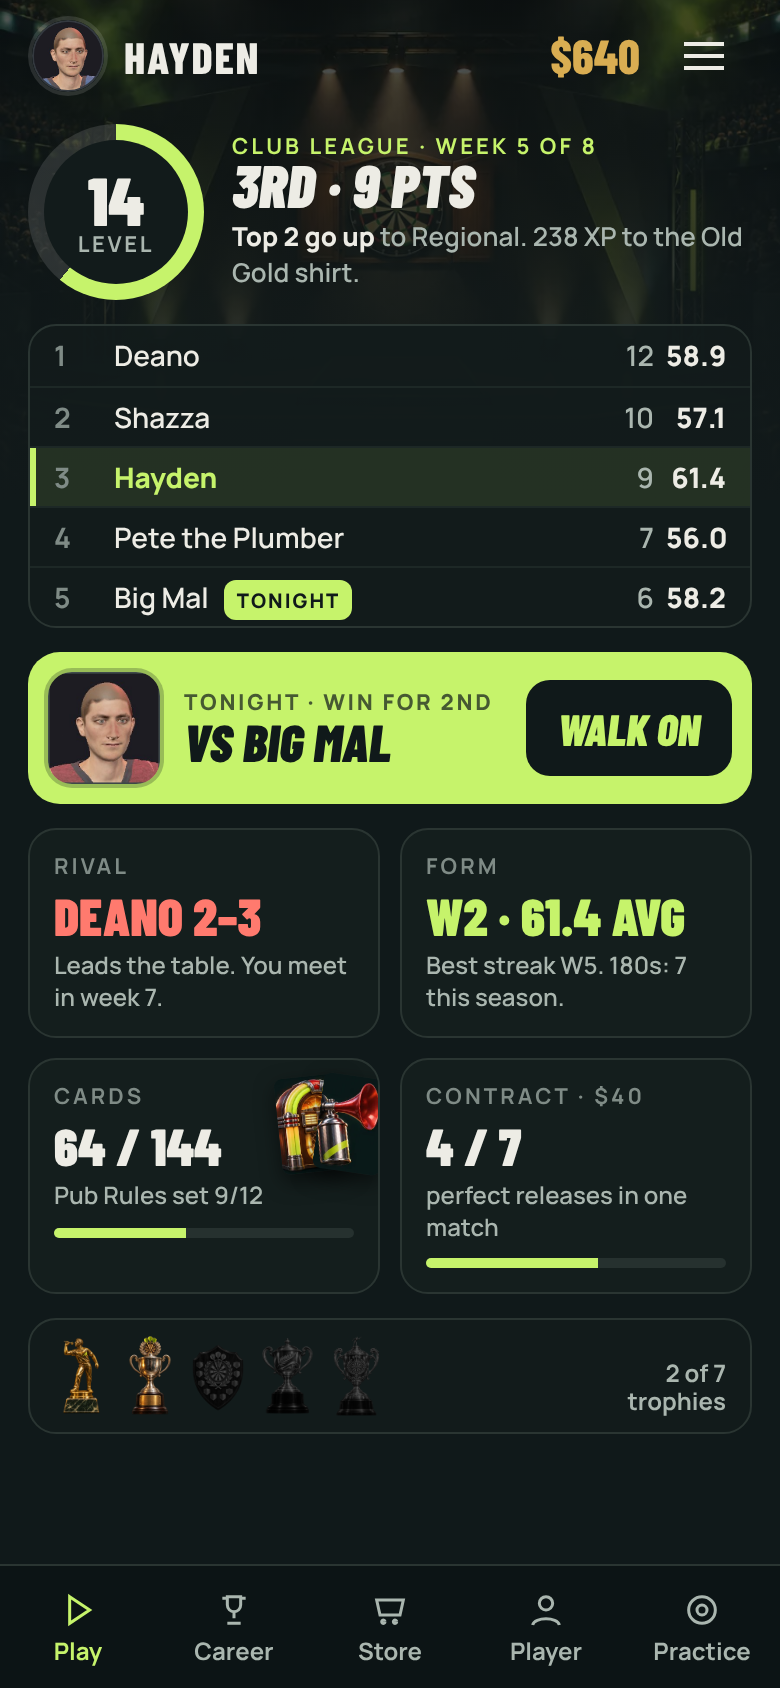
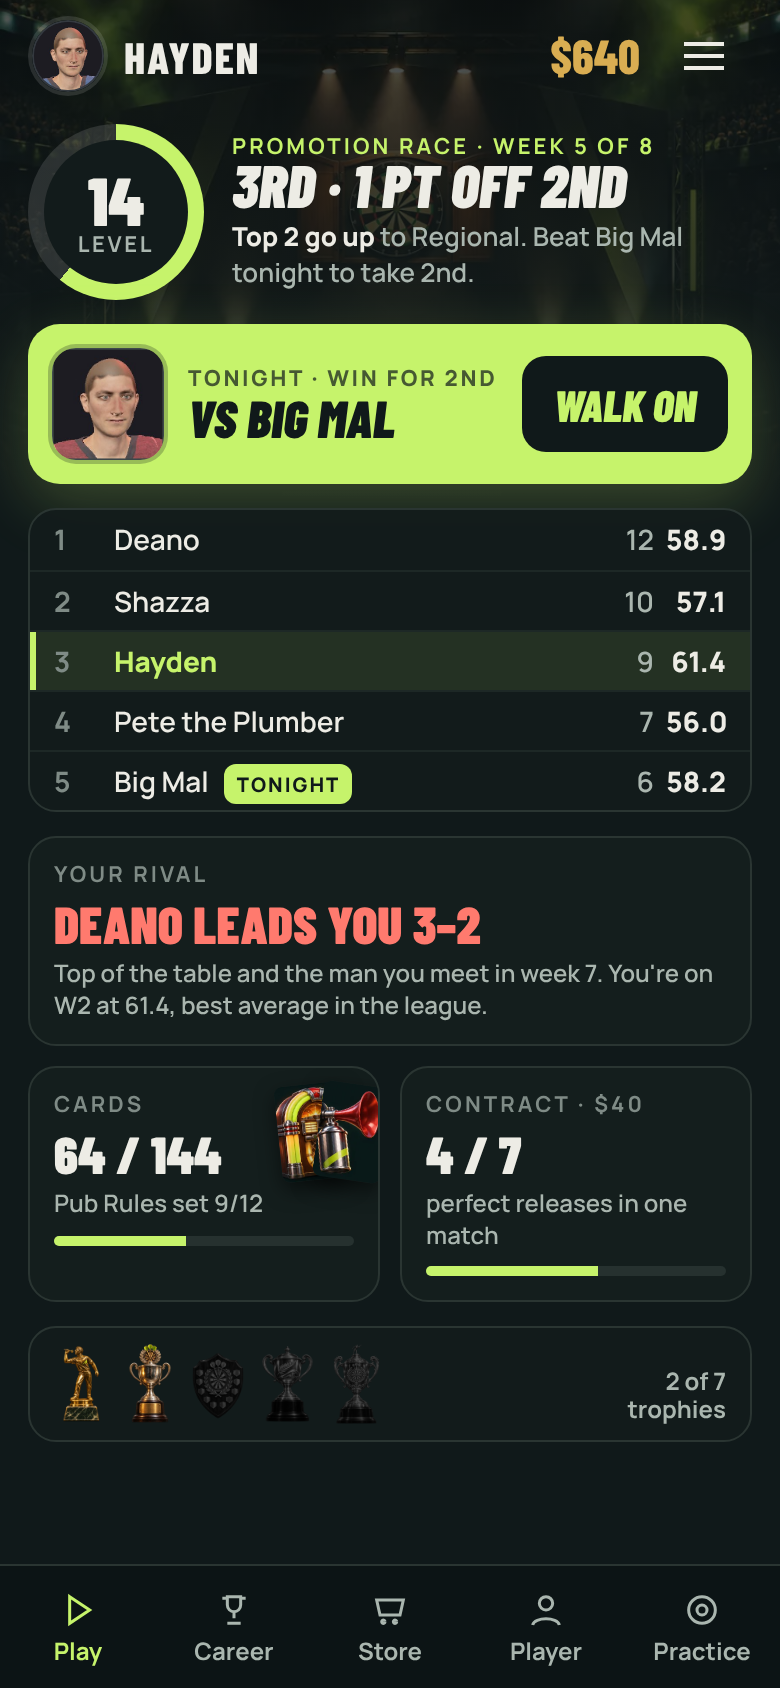
EXP-HOME concepts r3: A Tonight (ChatGPT 9.0), B Your local, C Career dashboard (8.9), today's baseline; 390x844 @2x PNGs + design critique (concepts only, nothing in the game changes)
Claude-Session: https://claude.ai/code/session_01WmQEKYuzjKWgLqY2q8YZP3

diff --git a/wip/home/b_local.html b/wip/home/b_local.html
@@ -9,8 +9,24 @@
 .hs .tag b{font:800 18px/1 "Barlow Condensed";text-transform:uppercase;letter-spacing:.04em}
 .hs .tag span{font:600 12px/1.2 Manrope;color:var(--muted);margin-top:3px}
 .hs.r{flex-direction:row-reverse}
+.hs.s .dot{background:rgba(255,255,255,.18);box-shadow:0 0 0 2px rgba(237,236,229,.85)}.hs.s .dot::after{background:#EDECE5}.hs.s .tag{border-color:rgba(255,255,255,.18);padding:6px 10px;min-height:44px}.hs.s .tag b{font-size:16px}
+.hs.p .tag b{font-size:19px}
 .hs .tag .badge{color:#10191A!important;font-size:11px!important;margin-top:0!important;display:inline-block;margin-left:6px;padding:1px 6px;border-radius:8px;background:var(--gold);color:#10191A;font:800 11px/16px Manrope;vertical-align:2px}
-.sheet{position:absolute;left:12px;right:12px;bottom:14px;border-radius:20px;background:rgba(18,27,27,.96);border:1px solid var(--line);padding:16px 16px 16px;box-shadow:0 -10px 40px rgba(0,0,0,.5);z-index:4}
+.pl,.sc{position:absolute;display:flex;align-items:center;gap:0;z-index:3}
+.pl{left:12px}.sc{right:12px;flex-direction:row;gap:8px}
+.pl .tag,.sc .tag{display:flex;flex-direction:column;justify-content:center;min-height:52px;border-radius:12px;background:rgba(10,16,17,.88);box-shadow:0 8px 24px rgba(0,0,0,.45)}
+.pl .tag{width:196px;padding:8px 12px 8px 14px;border:1px solid rgba(198,243,107,.35);border-left:4px solid var(--lime)}
+.pl .tag b{font:800 20px/1 "Barlow Condensed";text-transform:uppercase;letter-spacing:.04em}
+.pl .tag span,.sc .tag span{font:600 12px/1.2 Manrope;color:var(--muted);margin-top:3px}
+.pl .tag .badge{display:inline-block;margin-left:4px;padding:1px 6px;border-radius:8px;background:var(--gold);color:#10191A;font:800 11px/16px Manrope;vertical-align:2px}
+.pl .lead{display:block;height:2px;background:linear-gradient(90deg,var(--lime),rgba(198,243,107,.4))}
+.pl .dot,.sc .dot{width:16px;height:16px;border-radius:50%;flex:none;position:relative}
+.pl .dot{background:rgba(198,243,107,.25);box-shadow:0 0 0 2px var(--lime),0 0 16px rgba(198,243,107,.7)}
+.pl .dot::after,.sc .dot::after{content:"";position:absolute;inset:4px;border-radius:50%;background:var(--lime)}
+.sc .dot{background:rgba(255,255,255,.18);box-shadow:0 0 0 2px rgba(237,236,229,.85)}.sc .dot::after{background:#EDECE5}
+.sc .tag{width:132px;padding:6px 12px;border:1px solid rgba(255,255,255,.18);min-height:48px}
+.sc .tag b{font:800 17px/1 "Barlow Condensed";text-transform:uppercase;letter-spacing:.04em}
+.sheet{position:absolute;left:12px;right:12px;bottom:14px;border-radius:16px;background:radial-gradient(ellipse at 30% 20%,rgba(255,255,255,.05),transparent 60%),#1b2321;border:6px solid #4a3322;outline:1px solid #2b1d13;padding:16px 16px 16px;box-shadow:0 -10px 40px rgba(0,0,0,.5);z-index:4}
 .sheet .row{display:flex;align-items:center;gap:12px}
 .sheet .ph{width:64px;height:64px;border-radius:12px;background:url(opp_bigmal.png) center/cover;flex:none;box-shadow:0 0 0 2px rgba(198,243,107,.35)}
 .sheet h2{font:900 italic 36px/.9 "Barlow Condensed";text-transform:uppercase}
@@ -18,6 +34,8 @@
 .sheet .go{margin-top:14px;height:60px;border-radius:14px;background:var(--lime);color:#10191A;display:flex;align-items:center;justify-content:center;gap:10px}
 .sheet .go b{font:900 italic 28px/1 "Barlow Condensed";text-transform:uppercase;letter-spacing:.04em}
 .sheet .go span{font:700 12px/1 Manrope;letter-spacing:.06em;text-transform:uppercase;opacity:.75}
+.chalk{display:flex;justify-content:space-between;align-items:center}.chalk .wk{font:600 12px/1 Manrope;color:var(--muted)}
+.sheet .meta b{color:var(--lime)}
 .lvl{position:absolute;left:16px;right:16px;top:60px;display:flex;align-items:center;gap:10px;z-index:4}
 .lvl .bar{flex:1;height:6px;border-radius:3px;background:rgba(255,255,255,.14);overflow:hidden}.lvl .bar i{display:block;height:100%;width:61%;background:var(--lime)}
 .lvl small{font:700 12px/1 Manrope;color:var(--text);letter-spacing:.06em;text-transform:uppercase}
@@ -26,16 +44,15 @@
 <div class="bg"></div>
 <div class="top"><div class="av"></div><div class="nm">Hayden</div><div class="cash">$640</div><div class="menu"><i></i></div></div>
 <div class="lvl"><small>Lv 14</small><div class="bar"><i></i></div><em>238 XP to Old Gold shirt</em></div>
-<!-- places in the room are the menu -->
-<div class="hs r" style="right:222px;top:196px"><span class="dot"></span><span class="tag"><b>The oche</b><span>Practice · chalk up</span></span></div>
-<div class="hs" style="left:12px;top:112px"><span class="dot"></span><span class="tag"><b>Wall of fame</b><span>Career · 2 trophies</span></span></div>
-<div class="hs r" style="right:12px;top:292px"><span class="dot"></span><span class="tag"><b>The bar</b><span>Store · new barrels</span></span></div>
-<div class="hs" style="left:16px;top:372px"><span class="dot"></span><span class="tag"><b>Back room<span class="badge">$100</span></b><span>Money match tonight</span></span></div>
-<div class="hs r" style="right:12px;top:440px"><span class="dot"></span><span class="tag"><b>Noticeboard<span class="badge">2</span></b><span>Contracts · league table</span></span></div>
-<div class="hs" style="left:110px;top:500px"><span class="dot"></span><span class="tag"><b>Your locker</b><span>Kit · cards 64/144</span></span></div>
+<!-- places in the room are the menu: one consistent primary style (left column, lime edge, leader line to the place); secondaries right -->
+<div class="pl" style="top:100px"><span class="tag"><b>Wall of fame</b><span>Career · table · 2 trophies</span></span><i class="lead" style="width:0"></i></div>
+<div class="pl" style="top:262px"><span class="tag"><b>The oche</b><span>Practice</span></span><i class="lead" style="width:40px"></i><span class="dot"></span></div>
+<div class="pl" style="top:372px"><span class="tag"><b>Back room <span class="badge">$100</span></b><span>Money match tonight</span></span></div>
+<div class="sc" style="top:336px"><span class="tag"><b>The bar</b><span>Store</span></span><span class="dot"></span></div>
+<div class="sc" style="top:452px"><span class="tag"><b>Locker</b><span>Kit · cards</span></span><span class="dot"></span></div>
 <div class="sheet">
-  <div class="k">Tonight · Club League · Week 5 of 8</div>
-  <div class="row" style="margin-top:10px"><div class="ph"></div><div><h2>vs Big Mal</h2><div class="meta">You're 3rd, he's 5th · win and you go 2nd</div></div></div>
+  <div class="chalk"><span class="k">Tonight on the board</span><span class="wk">Club League · Wk 5/8</span></div>
+  <div class="row" style="margin-top:10px"><div class="ph"></div><div><h2>vs Big Mal</h2><div class="meta">You're 3rd, he's 5th. <b>Win and you go 2nd.</b></div></div></div>
   <div class="go"><b>Walk on</b><span>Bo3 · $60 · 120 XP</span></div>
 </div>
 </body></html>

diff --git a/wip/home/a_tonight.html b/wip/home/a_tonight.html
@@ -1,8 +1,8 @@
 <!doctype html><html><head><meta charset="utf-8"><link rel="stylesheet" href="base.css"><style>
-.bg{position:absolute;inset:0;background:url(../../assets/ui/bg_club.webp) center 18%/cover}
-.bg::after{content:"";position:absolute;inset:0;background:linear-gradient(180deg,rgba(10,15,16,.55) 0%,rgba(10,15,16,.15) 18%,rgba(10,15,16,.35) 34%,rgba(16,25,26,.92) 52%,var(--base) 64%)}
+.bg{position:absolute;inset:0;background:radial-gradient(ellipse 55% 30% at 50% 30%,rgba(255,200,120,.22),transparent 70%),url(../../assets/ui/bg_club.webp) center 18%/cover}
+.bg::after{content:"";position:absolute;inset:0;background:linear-gradient(180deg,rgba(10,15,16,.5) 0%,rgba(10,15,16,0) 20%,rgba(10,15,16,.2) 36%,rgba(16,25,26,.9) 56%,var(--base) 68%)}
 .wrap{position:absolute;left:0;right:0;top:56px;bottom:62px;padding:0 18px;display:flex;flex-direction:column}
-.when{margin-top:118px;display:flex;align-items:center;gap:8px}
+.when{margin-top:104px;display:flex;align-items:center;gap:8px}
 .when .live{width:8px;height:8px;border-radius:50%;background:var(--lime);box-shadow:0 0 10px var(--lime)}
 .vs{margin-top:10px;display:flex;align-items:flex-end;gap:14px}
 .vs .ph{width:96px;height:96px;border-radius:14px;background:url(opp_bigmal.png) center/cover;box-shadow:0 0 0 2px rgba(198,243,107,.35),0 12px 30px rgba(0,0,0,.5);flex:none}
@@ -16,7 +16,7 @@
 .pips{display:flex;gap:4px}.pips i{width:16px;height:16px;border-radius:4px;display:grid;place-items:center;font:800 11px/1 Manrope;font-style:normal;color:#10191A;background:var(--lime)}.pips i.x{background:#3a4743;color:var(--text)}
 .r .pips{justify-content:flex-end}
 .stake{margin-top:12px;display:flex;gap:8px}
-.stake div{flex:1;padding:10px 12px;border-radius:12px;background:#141f1e;border:1px solid var(--line)}
+.stake .big{flex:2.2!important}.stake div{flex:1;padding:10px 12px;border-radius:12px;background:#141f1e;border:1px solid var(--line)}
 .stake b{display:block;font:800 20px/1 "Barlow Condensed";text-transform:uppercase}
 .stake span{display:block;margin-top:4px;font:600 12px/1.2 Manrope;color:var(--muted)}
 .stake .up b{color:var(--lime)} .stake .cash b{color:var(--gold)}
@@ -27,7 +27,7 @@
 .also>div{flex:1;min-height:52px;padding:8px 10px;border-radius:12px;border:1px solid var(--line);background:#121b1b}
 .also small{display:block;font:700 11px/1 Manrope;letter-spacing:.1em;text-transform:uppercase;color:var(--dim)}
 .also b{display:block;margin-top:5px;font:700 14px/1.15 Manrope;color:var(--text)}
-.also .bar{height:4px;border-radius:2px;background:#26312f;margin-top:6px;overflow:hidden}.also .bar i{display:block;height:100%;width:61%;background:var(--lime)}
+.also em{display:block;font:800 13px/1 Manrope;font-style:normal;margin-top:5px;color:var(--muted)}.also em.g{color:var(--gold)}.also .sh{position:relative;padding-right:40px}.also .sh img{position:absolute;right:6px;top:10px;width:34px;height:34px;object-fit:contain}.also .bar{height:4px;border-radius:2px;background:#26312f;margin-top:6px;overflow:hidden}.also .bar i{display:block;height:100%;background:var(--lime)}
 </style></head><body>
 <div class="bg"></div>
 <div class="top"><div class="av"></div><div class="nm">Hayden</div><div class="cash">$640</div><div class="menu"><i></i></div></div>
@@ -40,12 +40,12 @@
     <div class="l">3rd</div><div class="h">Table</div><div class="r">5th</div>
     <div class="l pips"><i>W</i><i>W</i><i class="x">L</i><i>W</i><i>W</i></div><div class="h">Form</div><div class="r pips"><i class="x">L</i><i>W</i><i class="x">L</i><i>W</i><i class="x">L</i></div>
   </div>
-  <div class="stake"><div class="up"><b>Up to 2nd</b><span>if you win</span></div><div class="cash"><b>+$60</b><span>prize</span></div><div><b>+120 XP</b><span>to Old Gold shirt</span></div></div>
+  <div class="stake"><div class="up big"><b>Win and you go 2nd</b><span>Top 2 go up to Regional · 3 weeks left</span></div><div class="cash"><b>+$60</b><span>prize</span></div><div><b>+120 XP</b><span>Lv 15 soon</span></div></div>
   <div class="go"><b>Walk on</b><span>Best of 3 · 501</span></div>
   <div class="also">
-    <div><small>Money match</small><b>Kauri Back Room · $100</b></div>
-    <div><small>Contract</small><b>4/7 perfect releases</b></div>
-    <div><small>Level 14</small><b>238 XP to go</b><div class="bar"><i></i></div></div>
+    <div><small>Money match</small><b>Kauri Back Room</b><em class="g">Win $100</em></div>
+    <div><small>Contract · $40</small><b>4 of 7 perfect releases</b><div class="bar"><i style="width:57%"></i></div></div>
+    <div class="sh"><small>Next unlock</small><b>Old Gold shirt</b><em>238 XP</em><img src="../../assets/ui/ic_shirt.webp"></div>
   </div>
 </div>
 <div class="tabs"><b class="on"><svg viewBox="0 0 24 24"><path d="M7 4l12 8-12 8z"/></svg>Play</b><b><svg viewBox="0 0 24 24"><path d="M8 4h8v5a4 4 0 01-8 0zM12 13v4M8 20h8M5 5h3M16 5h3"/></svg>Career</b><b><svg viewBox="0 0 24 24"><path d="M4 6h16l-2 9H6zM9 19a1 1 0 100 .1M16 19a1 1 0 100 .1"/></svg>Store</b><b><svg viewBox="0 0 24 24"><circle cx="12" cy="8" r="4"/><path d="M4 21c1-5 15-5 16 0"/></svg>Player</b><b><svg viewBox="0 0 24 24"><circle cx="12" cy="12" r="8"/><circle cx="12" cy="12" r="3"/></svg>Practice</b></div>

diff --git a/wip/home/c_dash.html b/wip/home/c_dash.html
@@ -15,7 +15,7 @@
 .table em{font-style:normal;color:var(--dim);font-weight:700}.table i{font-style:normal;text-align:right;color:var(--muted)}.table s{text-decoration:none;text-align:right;font-weight:800}
 .table .me{background:rgba(198,243,107,.1);box-shadow:inset 3px 0 0 var(--lime)}.table .me span{color:var(--lime);font-weight:800}
 .table .nx span::after{content:"tonight";margin-left:8px;font:800 10px/1 Manrope;letter-spacing:.1em;text-transform:uppercase;color:#10191A;background:var(--lime);padding:3px 6px;border-radius:6px}
-.next{display:flex;align-items:center;gap:12px;padding:10px;border-radius:16px;background:var(--lime);color:#10191A}
+.next{display:flex;align-items:center;gap:12px;padding:12px;box-shadow:0 10px 30px rgba(198,243,107,.22);border-radius:16px;background:var(--lime);color:#10191A}
 .next .ph{width:56px;height:56px;border-radius:12px;background:url(opp_bigmal.png) center/cover;flex:none;box-shadow:0 0 0 2px rgba(16,25,26,.25)}
 .next small{display:block;font:800 11px/1 Manrope;letter-spacing:.12em;text-transform:uppercase;opacity:.7}
 .next b{display:block;font:900 italic 26px/.95 "Barlow Condensed";text-transform:uppercase;margin-top:3px}
@@ -26,7 +26,7 @@
 .t b{display:block;font:900 26px/1 "Barlow Condensed";text-transform:uppercase;margin-top:7px}
 .t span{display:block;font:600 12px/1.3 Manrope;color:var(--muted);margin-top:4px}
 .t .bar{height:5px;border-radius:3px;background:#26312f;margin-top:8px;overflow:hidden}.t .bar i{display:block;height:100%;background:var(--lime)}
-.t.rival b{color:#ff7a6e}
+.t.rival b{color:#ff7a6e}.t.wide{grid-column:1/-1;min-height:0!important}
 .t.streak b{color:var(--lime)}
 .fan{position:absolute;right:-4px;top:8px;display:flex}.fan img{width:34px;height:48px;border-radius:4px;object-fit:cover;margin-left:-14px;box-shadow:0 4px 10px rgba(0,0,0,.5);transform:rotate(8deg)}.fan img:first-child{transform:rotate(-6deg)}
 .shelf{display:flex;gap:8px;align-items:flex-end;padding:8px 12px;border:1px solid var(--line);border-radius:14px;background:#121b1b}
@@ -37,7 +37,8 @@
 <div class="top"><div class="av"></div><div class="nm">Hayden</div><div class="cash">$640</div><div class="menu"><i></i></div></div>
 <div class="wrap">
   <div class="season"><div class="ring"><div><b>14</b><small>Level</small></div></div>
-    <div><div class="k">Club League · Week 5 of 8</div><h1>3rd · 9 pts</h1><p><b>Top 2 go up</b> to Regional. 238 XP to the Old Gold shirt.</p></div></div>
+    <div><div class="k">Promotion race · Week 5 of 8</div><h1>3rd · 1 pt off 2nd</h1><p><b>Top 2 go up</b> to Regional. Beat Big Mal tonight to take 2nd.</p></div></div>
+  <div class="next"><div class="ph"></div><div><small>Tonight · win for 2nd</small><b>vs Big Mal</b></div><div class="wo">Walk on</div></div>
   <div class="table">
     <div><em>1</em><span>Deano</span><i>12</i><s>58.9</s></div>
     <div><em>2</em><span>Shazza</span><i>10</i><s>57.1</s></div>
@@ -45,10 +46,8 @@
     <div><em>4</em><span>Pete the Plumber</span><i>7</i><s>56.0</s></div>
     <div class="nx"><em>5</em><span>Big Mal</span><i>6</i><s>58.2</s></div>
   </div>
-  <div class="next"><div class="ph"></div><div><small>Tonight · win for 2nd</small><b>vs Big Mal</b></div><div class="wo">Walk on</div></div>
   <div class="grid">
-    <div class="t rival"><div class="k">Rival</div><b>Deano 2–3</b><span>Leads the table. You meet in week 7.</span></div>
-    <div class="t streak"><div class="k">Form</div><b>W2 · 61.4 avg</b><span>Best streak W5. 180s: 7 this season.</span></div>
+    <div class="t rival wide"><div class="k">Your rival</div><b>Deano leads you 3–2</b><span>Top of the table and the man you meet in week 7. You're on W2 at 61.4, best average in the league.</span></div>
     <div class="t"><div class="k">Cards</div><b>64 / 144</b><span>Pub Rules set 9/12</span><div class="bar"><i style="width:44%"></i></div><div class="fan"><img src="../../assets/ui/card_juke.webp"><img src="../../assets/ui/card_horn.webp"></div></div>
     <div class="t"><div class="k">Contract · $40</div><b>4 / 7</b><span>perfect releases in one match</span><div class="bar"><i style="width:57%"></i></div></div>
   </div>

diff --git a/wip/home/home_designcritique.md b/wip/home/home_designcritique.md
@@ -1,0 +1,34 @@
+## Design Critique: TOPS career home, three concepts vs today (390×844, mid-career save, round 2)
+
+### Today (baseline)
+The art is strong but the page is a stack of equal blocks. "FILL-IN" is jargon shouted at 64 px. Nothing says where you stand in the league or why tonight matters. Level progress and contracts sit below the fold. The player figure crowds the headline, and the labels are 11–12 px caps.
+
+### A · Tonight (one big next action)
+| Finding | Severity | Recommendation |
+|---|---|---|
+| Tale of the tape answers "who and how am I doing" in one glance | 🟢 works | Keep |
+| The stake ("Win and you go 2nd") is the reason to tap, now the headline tile | 🟢 fixed in r2 | Keep |
+| The three "also" tiles stack three lines of 14 px text each | 🟡 | One line plus value per tile if it goes to a build |
+- **Hierarchy:** name → tape → stake → Walk on → extras. Correct order. Walk on sits in the thumb zone at 72 px tall.
+- **Accessibility:** no text under 11 px; lime on dark ≈ 12:1; all taps ≥ 44 px.
+
+### B · Your local (the pub is the menu)
+| Finding | Severity | Recommendation |
+|---|---|---|
+| Most memorable; the career finally feels like a place | 🟢 | Keep the room, not a menu |
+| Places can read as a scavenger hunt | 🟡 fixed in r2 | 5 places; lime = go-to (career, practice, money), white = shop/kit |
+| Hotspots sit on a still image | 🟡 | A build would use the live 3D pub, with the camera easing to a place on tap |
+- **Hierarchy:** chalkboard fixture first (bottom, thumb zone), then lime places, then white.
+- **Accessibility:** labels 16–19 px, tags ≥ 44 px tall; the board is no longer covered.
+
+### C · Career dashboard (progress at a glance)
+| Finding | Severity | Recommendation |
+|---|---|---|
+| Header tells the story ("3rd · 1 pt off 2nd") instead of raw stats | 🟢 fixed in r2 | Keep |
+| Walk on banner is now second in reading order | 🟢 fixed in r2 | Keep |
+| Densest of the three; trophy shelf is low value | 🟢 minor | Drop the shelf first if space is needed |
+- **Hierarchy:** story → play → table → rival → cards/contract.
+- **Accessibility:** table 14 px, tiles 12–26 px; all ≥ 11 px.
+
+### Distinctness check
+A = one decision and play. B = explore a place. C = manage a career. Different jobs, different layouts, the same art and type.
